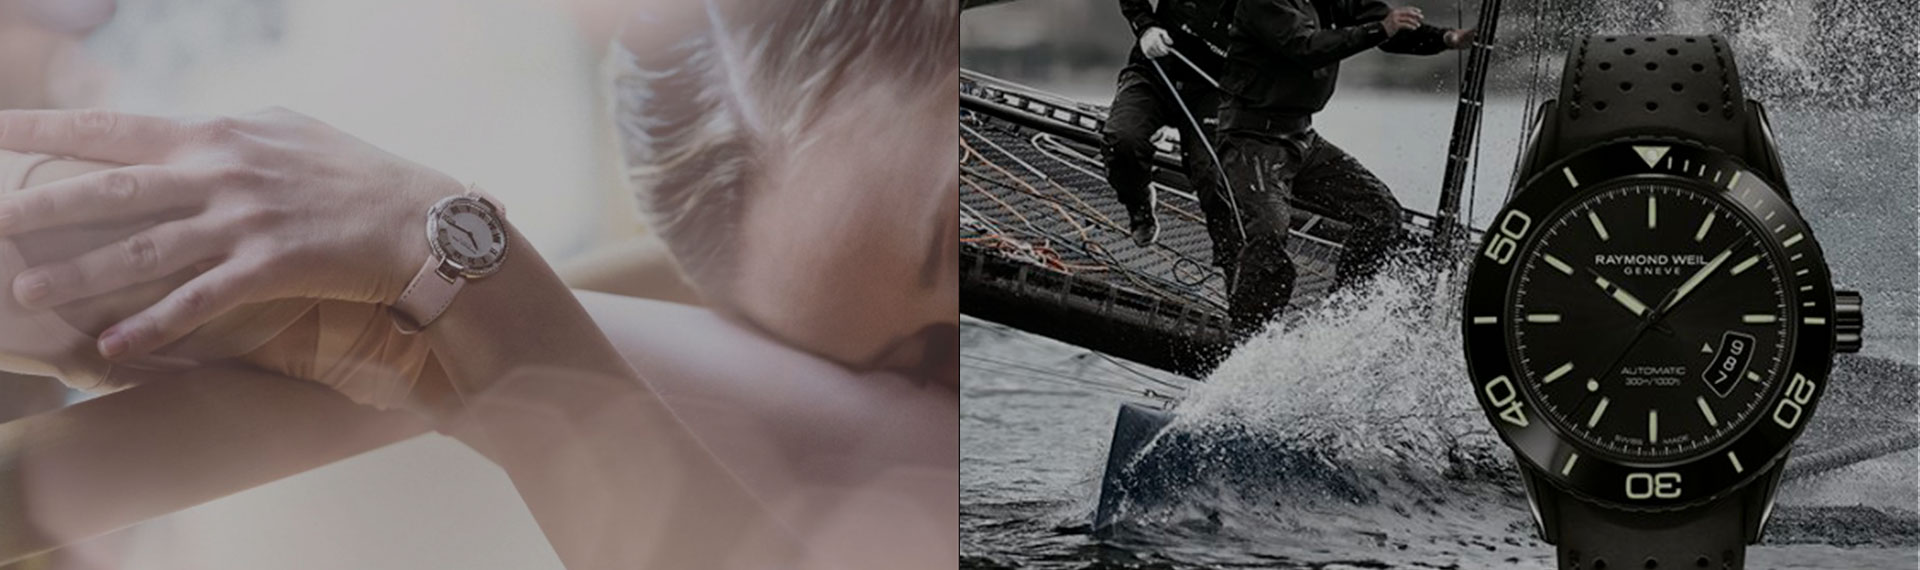
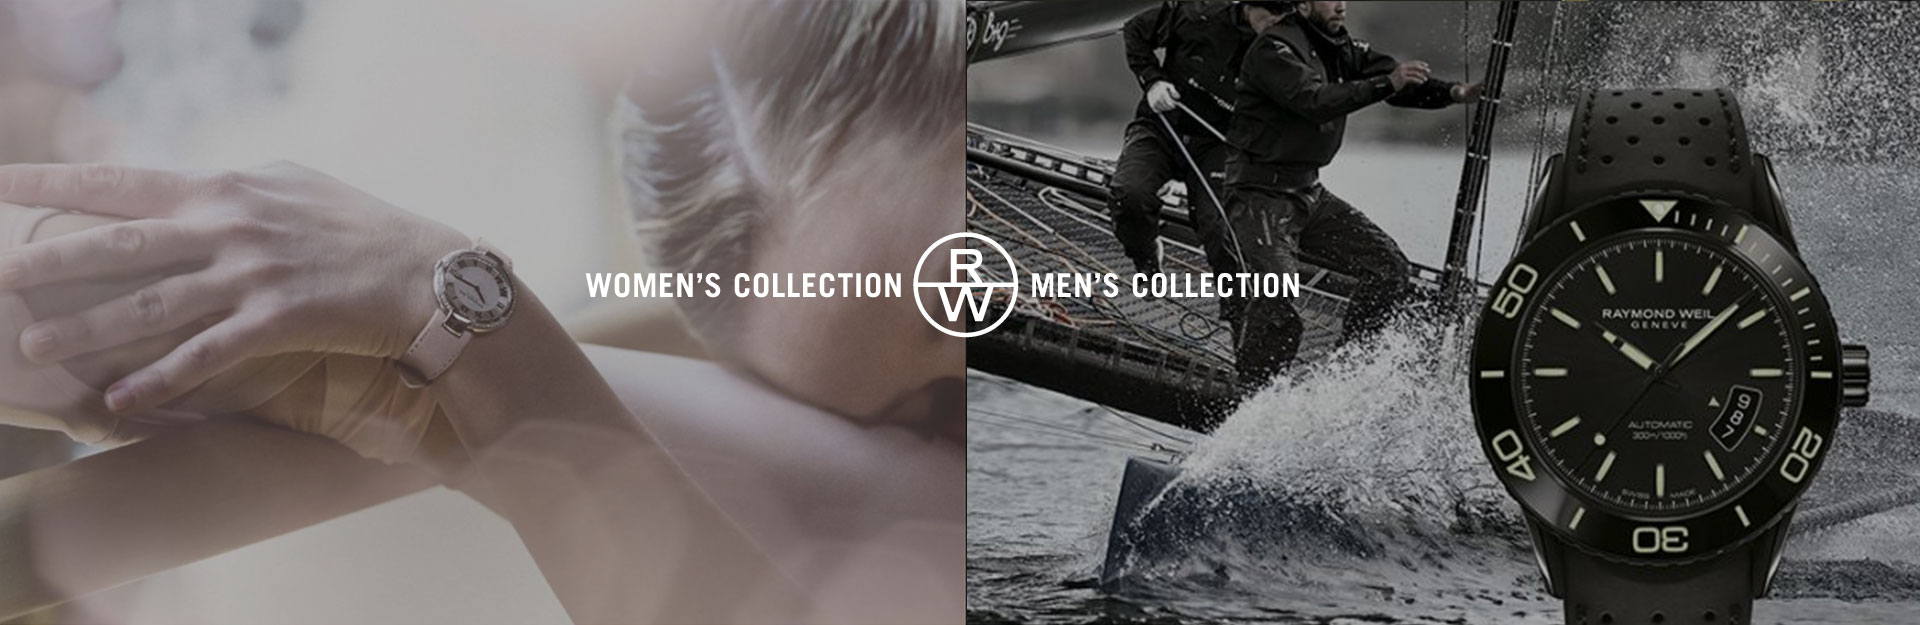
se agregan secciones

diff --git a/index.html b/index.html
@@ -64,36 +64,77 @@
     </div>
 
     <!-- HISTORIA -->
-    <div class="grid-container rw-historia">
+    <div class="grid-container">
         <div class="grid-x align-center mt20">
             <div class="cell large-3 medium-4 small-6">
                 <img src="img/rw_logo_black.png" alt="">
             </div>
             <div class="cell mt20">
-                <p class="text-center">La música y el arte son para RAYMOND WEIL como el pensamiento es a la humanidad: una fuente inagotable de inspiración y creatividad. Con más de 40 años de experiencia, la Maison aporta habilidades y experiencia adquiridas durante siglos.</p>
+                <p class="rw-historia-c-texto">La música y el arte son para RAYMOND WEIL como el pensamiento es a la humanidad: una fuente inagotable de inspiración y creatividad. Con más de 40 años de experiencia, la Maison aporta habilidades y experiencia adquiridas durante siglos.</p>
             </div>
         </div>
-        <div class="grid-x mt20">
-            <div class="cell medium-4">
+        <div class="grid-x mt40">
+            <div class="cell medium-4 mt10">
                 <div class="grid-x align-center">
-                    <img src="img/artesanal_ico.png" alt="">
+                    <img src="img/artesanal_ico.png" alt="" class="rw-historia-ico">
                 </div>
-                <h3 class="text-center mt10">ARTESANAL</h3>
-                <h4 class="text-center">Reflejado en los materiales, componentes y diseños.</h4>
+                <p class="mt10 rw-historia-ico-title">ARTESANAL</p>
+                <p class="rw-historia-ico-text">Reflejado en los materiales, componentes y diseños.</p>
             </div>
-            <div class="cell medium-4">
+            <div class="cell medium-4 mt10">
                 <div class="grid-x align-center">
-                    <img src="img/swiss_made_ico.png" alt="">
+                    <img src="img/swiss_made_ico.png" alt="" class="rw-historia-ico">
                 </div>
-                <h3 class="text-center mt10">SWISS MADE</h3>
-                <h4 class="text-center">Con los estándares de calidad Suiza.</h4>
+                <p class="mt10 rw-historia-ico-title">SWISS MADE</p>
+                <p class="rw-historia-ico-text">Con los estándares de calidad Suiza.</p>
             </div>
-            <div class="cell medium-4">
+            <div class="cell medium-4 mt10">
                 <div class="grid-x align-center">
-                    <img src="img/precision_ico.png" alt="">
+                    <img src="img/precision_ico.png" alt="" class="rw-historia-ico">
                 </div>
-                <h3 class="text-center mt10">PRECISIÓN</h3>
-                <h4 class="text-center">Indispensable para alcanzar la excelencia.</h4>
+                <p class="mt10 rw-historia-ico-title">PRECISIÓN</p>
+                <p class="rw-historia-ico-text">Indispensable para alcanzar la excelencia.</p>
+            </div>
+        </div>
+    </div>
+
+    <!-- WOMAN MEN COLLECTION BANNER -->
+    <img src="img/womens_mens_banner.jpg" alt="">
+
+    <!-- COLECCION -->
+    <div class="grid-container fluid rw-collection">
+        <div class="grid-container">
+            <div class="grid-x align-center">
+                <div class="medium-4 cell">
+                    <p>COLECCIÓN</p>
+                </div>
+            </div>
+            <div class="grid-x align-center">
+                <div class="medium-1 cell">
+                    <div class="rw-linea"></div>
+                </div>
+            </div>
+            <div class="grid-x mt40">
+                <div class="medium-3 cell">
+                    <div class="grid-x align-center">
+                        <img src="img/rw_shine_reloj.png" alt="" style="width: auto; height: 400px;">
+                    </div>
+                </div>
+                <div class="medium-3 cell">
+                    <div class="grid-x align-center">
+                        <img src="img/rw_tango_reloj.png" alt="" style="width: auto; height: 400px;">
+                    </div>
+                </div>
+                <div class="medium-3 cell">
+                    <div class="grid-x align-center">
+                        <img src="img/rw_maestro_reloj.png" alt="" style="width: auto; height: 400px;">
+                    </div>
+                </div>
+                <div class="medium-3 cell">
+                    <div class="grid-x align-center">
+                        <img src="img/rw_freelancer_reloj.png" alt="" style="width: auto; height: 400px;">
+                    </div>
+                </div>
             </div>
         </div>
     </div>

diff --git a/scss/_rw-estilos.scss b/scss/_rw-estilos.scss
@@ -14,6 +14,10 @@
     margin-top: 20px;
 }
 
+.mt40 {
+    margin-top: 40px;
+}
+
 .bold {
     font-weight: 700;
 }
@@ -57,13 +61,41 @@
     border-radius: 100px;
 }
 
-.rw-historia {
-    img {
-        height: 3rem;
-        width: auto;
-    }
-    h3 {
-        color: #3d3d3d;
+.rw-historia-ico {
+    height: 3rem;
+    width: auto;
+}
+
+.rw-historia-c-texto {
+    font-size: 1.2rem;
+    font-weight: 700;
+    text-align: center;
+    line-height: 1.2;
+}
+
+.rw-historia-ico-title {
+    font-size: 1.5rem;
+    font-weight: 700;
+    text-align: center;
+    color: #3d3d3d;
+    margin-bottom: 0;
+}
+
+.rw-historia-ico-text {
+    font-size: 1.2rem;
+    text-align: center;
+    color: #8f8f8f;
+    line-height: 1.2;
+    margin-bottom: 0;
+}
+
+.rw-collection {
+    background-color: black;
+    padding-top: 3rem;
+    p {
+        font-size: 2rem;
+        color: white;
         font-weight: 700;
+        text-align: center;
     }
 }
